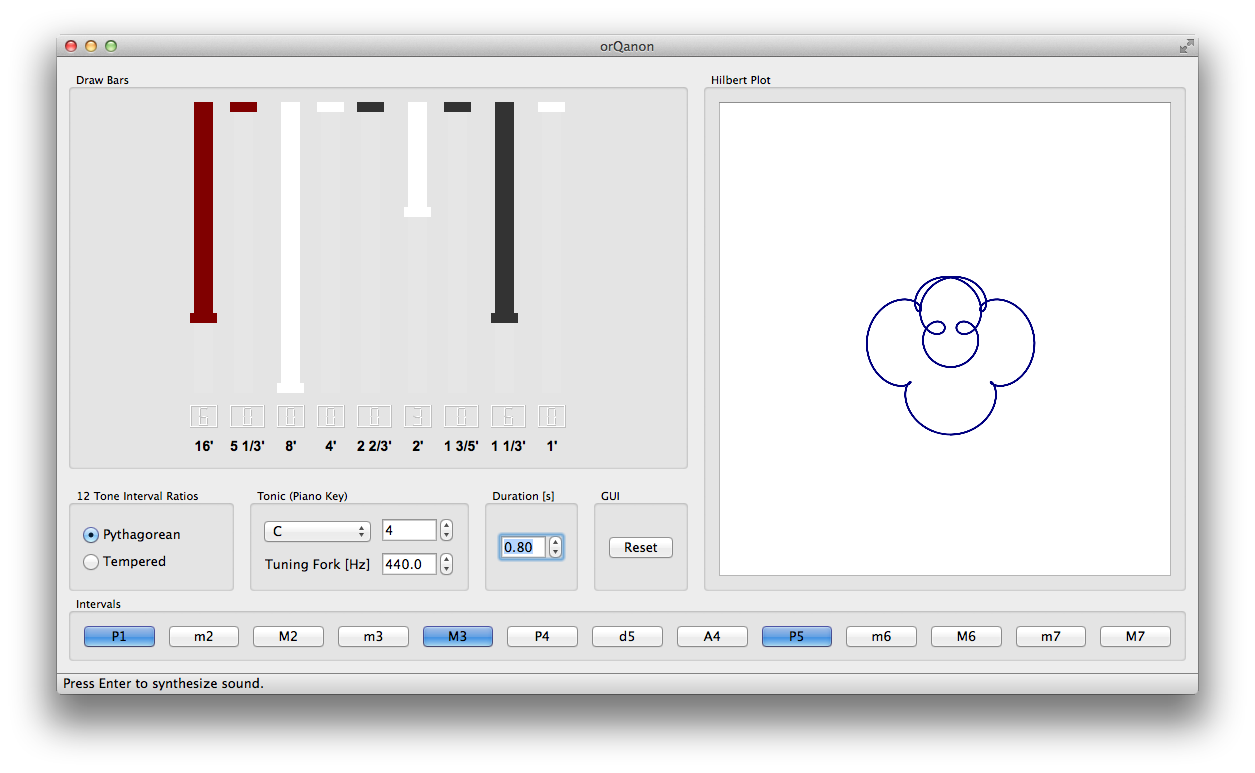
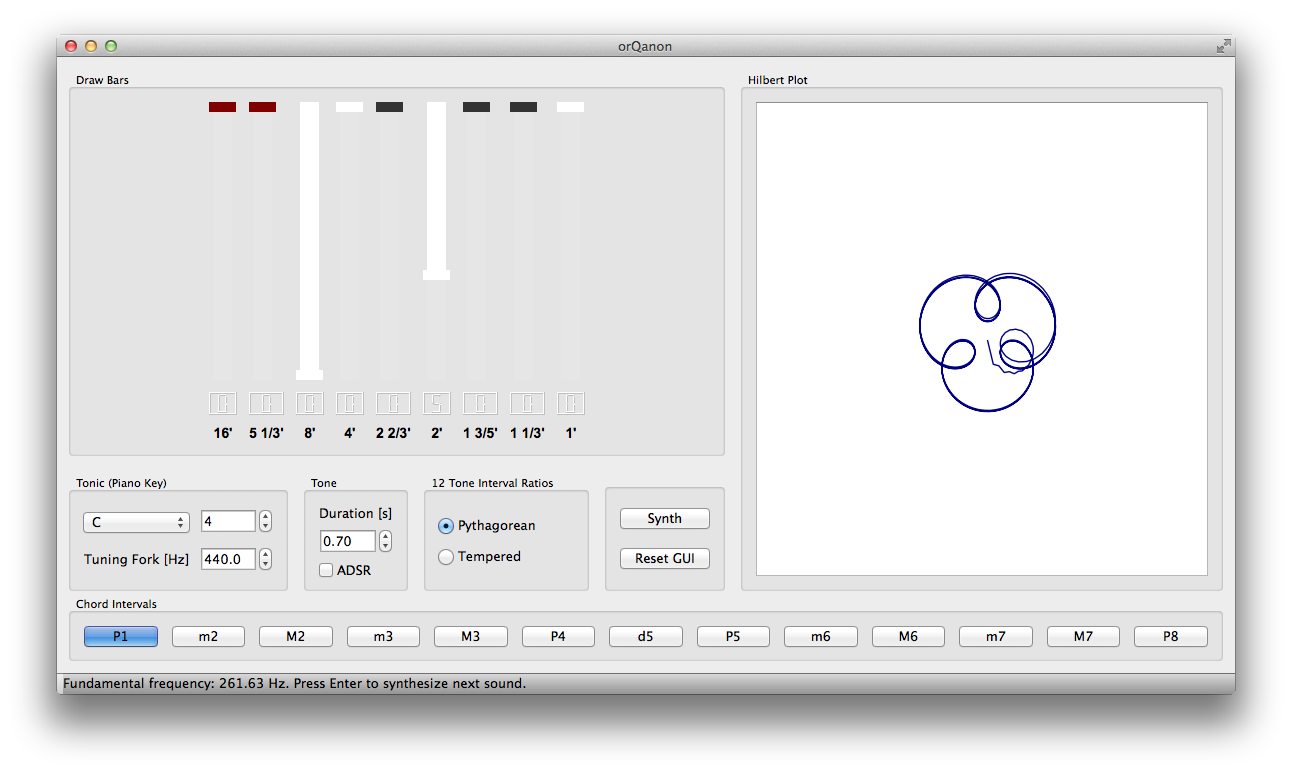
Bug fix + feature
Corrected interval names
added adar curve

diff --git a/orQanon_ui.py b/orQanon_ui.py
@@ -1,8 +1,8 @@
 # -*- coding: utf-8 -*-
 
-# Form implementation generated from reading ui file 'orQanon.ui'
+# Form implementation generated from reading ui file './rsrc/orQanon.ui'
 #
-# Created: Wed Nov 19 21:00:16 2014
+# Created: Thu Nov 20 22:04:00 2014
 #      by: PyQt5 UI code generator 5.3.2
 #
 # WARNING! All changes made in this file will be lost!
@@ -12,7 +12,7 @@ from PyQt5 import QtCore, QtGui, QtWidgets
 class Ui_mainWindow(object):
     def setupUi(self, mainWindow):
         mainWindow.setObjectName("mainWindow")
-        mainWindow.resize(1141, 637)
+        mainWindow.resize(1178, 637)
         self.centralwidget = QtWidgets.QWidget(mainWindow)
         self.centralwidget.setObjectName("centralwidget")
         self.verticalLayout_2 = QtWidgets.QVBoxLayout(self.centralwidget)
@@ -439,18 +439,6 @@ class Ui_mainWindow(object):
         self.verticalLayout.addWidget(self.groupBox_2)
         self.horizontalLayout_2 = QtWidgets.QHBoxLayout()
         self.horizontalLayout_2.setObjectName("horizontalLayout_2")
-        self.groupBox_4 = QtWidgets.QGroupBox(self.centralwidget)
-        self.groupBox_4.setObjectName("groupBox_4")
-        self.verticalLayout_3 = QtWidgets.QVBoxLayout(self.groupBox_4)
-        self.verticalLayout_3.setObjectName("verticalLayout_3")
-        self.radioButton_1 = QtWidgets.QRadioButton(self.groupBox_4)
-        self.radioButton_1.setChecked(True)
-        self.radioButton_1.setObjectName("radioButton_1")
-        self.verticalLayout_3.addWidget(self.radioButton_1)
-        self.radioButton_2 = QtWidgets.QRadioButton(self.groupBox_4)
-        self.radioButton_2.setObjectName("radioButton_2")
-        self.verticalLayout_3.addWidget(self.radioButton_2)
-        self.horizontalLayout_2.addWidget(self.groupBox_4)
         self.groupBox_6 = QtWidgets.QGroupBox(self.centralwidget)
         self.groupBox_6.setObjectName("groupBox_6")
         self.gridLayout_7 = QtWidgets.QGridLayout(self.groupBox_6)
@@ -478,20 +466,44 @@ class Ui_mainWindow(object):
         self.groupBox_5.setObjectName("groupBox_5")
         self.gridLayout_4 = QtWidgets.QGridLayout(self.groupBox_5)
         self.gridLayout_4.setObjectName("gridLayout_4")
+        self.label_10 = QtWidgets.QLabel(self.groupBox_5)
+        self.label_10.setObjectName("label_10")
+        self.gridLayout_4.addWidget(self.label_10, 0, 0, 1, 1)
         self.doubleSpinBox_1 = QtWidgets.QDoubleSpinBox(self.groupBox_5)
         self.doubleSpinBox_1.setMinimum(0.1)
         self.doubleSpinBox_1.setMaximum(5.0)
         self.doubleSpinBox_1.setSingleStep(0.1)
+        self.doubleSpinBox_1.setProperty("value", 0.7)
         self.doubleSpinBox_1.setObjectName("doubleSpinBox_1")
-        self.gridLayout_4.addWidget(self.doubleSpinBox_1, 0, 0, 1, 1)
+        self.gridLayout_4.addWidget(self.doubleSpinBox_1, 1, 0, 1, 1)
+        self.checkBox = QtWidgets.QCheckBox(self.groupBox_5)
+        self.checkBox.setChecked(True)
+        self.checkBox.setObjectName("checkBox")
+        self.gridLayout_4.addWidget(self.checkBox, 2, 0, 1, 1)
         self.horizontalLayout_2.addWidget(self.groupBox_5)
+        self.groupBox_4 = QtWidgets.QGroupBox(self.centralwidget)
+        self.groupBox_4.setObjectName("groupBox_4")
+        self.verticalLayout_3 = QtWidgets.QVBoxLayout(self.groupBox_4)
+        self.verticalLayout_3.setObjectName("verticalLayout_3")
+        self.radioButton_1 = QtWidgets.QRadioButton(self.groupBox_4)
+        self.radioButton_1.setChecked(True)
+        self.radioButton_1.setObjectName("radioButton_1")
+        self.verticalLayout_3.addWidget(self.radioButton_1)
+        self.radioButton_2 = QtWidgets.QRadioButton(self.groupBox_4)
+        self.radioButton_2.setObjectName("radioButton_2")
+        self.verticalLayout_3.addWidget(self.radioButton_2)
+        self.horizontalLayout_2.addWidget(self.groupBox_4)
         self.groupBox_7 = QtWidgets.QGroupBox(self.centralwidget)
+        self.groupBox_7.setTitle("")
         self.groupBox_7.setObjectName("groupBox_7")
         self.gridLayout_6 = QtWidgets.QGridLayout(self.groupBox_7)
         self.gridLayout_6.setObjectName("gridLayout_6")
         self.pushButton_reset = QtWidgets.QPushButton(self.groupBox_7)
         self.pushButton_reset.setObjectName("pushButton_reset")
-        self.gridLayout_6.addWidget(self.pushButton_reset, 0, 0, 1, 1)
+        self.gridLayout_6.addWidget(self.pushButton_reset, 1, 0, 1, 1)
+        self.pushButton_synth = QtWidgets.QPushButton(self.groupBox_7)
+        self.pushButton_synth.setObjectName("pushButton_synth")
+        self.gridLayout_6.addWidget(self.pushButton_synth, 0, 0, 1, 1)
         self.horizontalLayout_2.addWidget(self.groupBox_7)
         self.verticalLayout.addLayout(self.horizontalLayout_2)
         self.horizontalLayout_5.addLayout(self.verticalLayout)
@@ -568,7 +580,7 @@ class Ui_mainWindow(object):
         self.verticalLayout_2.addWidget(self.groupBox)
         mainWindow.setCentralWidget(self.centralwidget)
         self.menubar = QtWidgets.QMenuBar(mainWindow)
-        self.menubar.setGeometry(QtCore.QRect(0, 0, 1141, 22))
+        self.menubar.setGeometry(QtCore.QRect(0, 0, 1178, 22))
         self.menubar.setObjectName("menubar")
         self.menuFile = QtWidgets.QMenu(self.menubar)
         self.menuFile.setObjectName("menuFile")
@@ -613,14 +625,16 @@ class Ui_mainWindow(object):
         self.label_3.setText(_translate("mainWindow", "8\'"))
         self.label_6.setText(_translate("mainWindow", "2\'"))
         self.label_9.setText(_translate("mainWindow", "1\'"))
+        self.groupBox_6.setTitle(_translate("mainWindow", "Tonic (Piano Key)"))
+        self.label.setText(_translate("mainWindow", "Tuning Fork [Hz]"))
+        self.groupBox_5.setTitle(_translate("mainWindow", "Tone"))
+        self.label_10.setText(_translate("mainWindow", "Duration [s]"))
+        self.checkBox.setText(_translate("mainWindow", "ADSR"))
         self.groupBox_4.setTitle(_translate("mainWindow", "12 Tone Interval Ratios"))
         self.radioButton_1.setText(_translate("mainWindow", "Pythagorean"))
         self.radioButton_2.setText(_translate("mainWindow", "Tempered"))
-        self.groupBox_6.setTitle(_translate("mainWindow", "Tonic (Piano Key)"))
-        self.label.setText(_translate("mainWindow", "Tuning Fork [Hz]"))
-        self.groupBox_5.setTitle(_translate("mainWindow", "Duration [s]"))
-        self.groupBox_7.setTitle(_translate("mainWindow", "GUI"))
-        self.pushButton_reset.setText(_translate("mainWindow", "Reset"))
+        self.pushButton_reset.setText(_translate("mainWindow", "Reset GUI"))
+        self.pushButton_synth.setText(_translate("mainWindow", "Synth"))
         self.groupBox_3.setTitle(_translate("mainWindow", "Hilbert Plot"))
         self.groupBox.setTitle(_translate("mainWindow", "Chord Intervals"))
         self.pushButton_1.setText(_translate("mainWindow", "P1"))
@@ -630,12 +644,12 @@ class Ui_mainWindow(object):
         self.pushButton_5.setText(_translate("mainWindow", "M3"))
         self.pushButton_6.setText(_translate("mainWindow", "P4"))
         self.pushButton_7.setText(_translate("mainWindow", "d5"))
-        self.pushButton_8.setText(_translate("mainWindow", "A4"))
-        self.pushButton_9.setText(_translate("mainWindow", "P5"))
-        self.pushButton_10.setText(_translate("mainWindow", "m6"))
-        self.pushButton_11.setText(_translate("mainWindow", "M6"))
-        self.pushButton_12.setText(_translate("mainWindow", "m7"))
-        self.pushButton_13.setText(_translate("mainWindow", "M7"))
+        self.pushButton_8.setText(_translate("mainWindow", "P5"))
+        self.pushButton_9.setText(_translate("mainWindow", "m6"))
+        self.pushButton_10.setText(_translate("mainWindow", "M6"))
+        self.pushButton_11.setText(_translate("mainWindow", "m7"))
+        self.pushButton_12.setText(_translate("mainWindow", "M7"))
+        self.pushButton_13.setText(_translate("mainWindow", "P8"))
         self.menuFile.setTitle(_translate("mainWindow", "File"))
         self.menuHelp.setTitle(_translate("mainWindow", "Help"))
         self.actionExit.setText(_translate("mainWindow", "Exit"))

diff --git a/synth.py b/synth.py
@@ -26,6 +26,7 @@ class Synth:
         self.rate = rate
         self.port = pyaudio.PyAudio()
         self.stream = self.port.open(format=pyaudio.paFloat32, channels=2, rate=rate, output=True, frames_per_buffer=chunk)
+        self.adsr = 0.2
 
 
     def play(self, x):
@@ -38,10 +39,9 @@ class Synth:
         self.stream.stop_stream()
 
         
-    def make_chord(self, frequencies, drawbars, duration):
+    def make_chord(self, frequencies, drawbars, duration, make_adsr = True):
 
         fs = self.rate
-
         t = np.arange(0, duration, 1/fs)
         x = np.zeros(len(t))
 
@@ -55,10 +55,17 @@ class Synth:
             x +=  int(drawbars[6])/8 * np.sin(2 * np.pi * frequencies[i]/ 8 / 5 * 8 * t) # 8/5 '
             x +=  int(drawbars[7])/8 * np.sin(2 * np.pi * frequencies[i]/ 4 / 3 * 8 * t) # 4/3 '
             x +=  int(drawbars[8])/8 * np.sin(2 * np.pi * frequencies[i]/ 1 * 8 * t) # 1 '
+        if make_adsr:
+            x *= 1-np.e**(-(t)*5/self.adsr/duration)
 
         return t, x
             
+    def make_adsr(fs, l = 1, rt = 0.2):
+        """Make an ADSR curve."""
         
+        t = np.arange(0, l, 1/fs)
+        return t, x
+
     def make_analytical(self, x):
         """Make an analitical signal from the real signal"""
 

diff --git a/orQanon_mainWindow.py b/orQanon_mainWindow.py
@@ -80,6 +80,7 @@ class mainWindow(QMainWindow, Ui_mainWindow):
         # signals and slots
 
         self.pushButton_reset.pressed.connect(self.do_reset)
+        self.pushButton_synth.pressed.connect(self.start_beep)
         self.comboBox.activated.connect(self.onActivated)
         #self.comboBox.activated[str].connect(self.onActivatedstr)
 
@@ -106,6 +107,7 @@ class mainWindow(QMainWindow, Ui_mainWindow):
         self.tonic_combo = 0 # C key
         self.radioButton_1.setChecked(True)
         self.radioButton_2.setChecked(False)
+        self.checkBox.setChecked(True)
         
     def keyPressEvent(self, event):
         
@@ -145,7 +147,7 @@ class mainWindow(QMainWindow, Ui_mainWindow):
             if not self.pushButtons[i].isChecked():
                 frequencies[i] = 0
         
-        t, x = self.synth.make_chord(frequencies, drawbars, duration)
+        t, x = self.synth.make_chord(frequencies, drawbars, duration, self.checkBox.isChecked())
 
         self.synth.play(x)
         xbar, inst_ph = self.synth.make_analytical(x)

diff --git a/README.md b/README.md
@@ -7,7 +7,11 @@ A software synthesizer for the study of music theory and chords written in Pytho
 
 ### Description
 
-Sound generation is started by pressing the **Enter key**. The individual configurations of the generated sound is explained below:
+Sound generation is started by pressing the **Enter key** or the **synth** button. The individual configurations of the generated sound is explained below from top to buttom:
+
+#### Drawbars
+
+Drawbars are shown as in historical Hammond B3 analog synthesizer, which in turn is similar to church organs. Historically register drawbars are pulled towards the player for louder sounds. Thats why the drawbars are drawn from top to bottom in the GUI. The values are from zero (closed/off register) to eight (loudest). Also the colors and numbers beneath the registers resemble those on the Hammond B3 organ. The numbers are in foot length of organ pipe. Sub harmonics are red, fundamental (8') and higher harmonics are white, whereas other intervals are in black.
 
 #### Hilbert Scope
 
@@ -18,17 +22,9 @@ This pane shows the hilber transform of the signal for the purpose of visualizat
 The program assumes a tone range of a hypothetical piano with 108 keys, from C0 to B8. This means e.g. that the key A4, usually taken as frequency standard (tuning fork) in the musicology, is the 57th key. In order to avoid confusion, it should be mentioned that the successtion of the piano keys are actually according to an **equal tempered** piano keyboard. This does not limit the versatility of the software since the user can achieve any frequency by changing the tuning fork.
 
 
-#### Duration
+#### Tone
 
-This is the duration of the generated tone in seconds.
-
-#### Drawbars
-
-Drawbars are shown as in historical Hammond B3 analog synthesizer, which in turn is similar to church organs. Historically register drawbars are pulled towards the player for louder sounds. Thats why the drawbars are drawn from top to bottom in the GUI. The values are from zero (closed/off register) to eight (loudest). Also the colors and numbers beneath the registers resemble those on the Hammond B3 organ. The numbers are in foot length of organ pipe. Sub harmonics are red, fundamental (8') and higher harmonics are white, whereas other intervals are in black.
-
-#### Chord intervals
-
-Chords can contain as many intervals as desired using toggle buttons. The interval names are chosen as usual in musical theory, minor **m**, major **M**, augmented **A**, diminished **d** and perfect **P** followed by the interval length. The number of buttons resembles a 12 tone scale. By default the perfect unison is checked, which means only one sound is generated.
+Here you can set the duration of the tone and ADSR (Attack, Decay, Sustain, Release) curve. Currently each transient is set to 1/5th of the duration.
 
 #### 12 Tone interval ratios
 
@@ -37,6 +33,10 @@ Here one can choose the ratios governing the 12 tone chord scale. Currently Pyth
 #### GUI reset
 
 This button is for convenience, in order to quickly reset the GUI to the original settings, which may be faster for the user.
+
+#### Chord intervals
+
+Chords can contain as many intervals as desired using toggle buttons. The interval names are chosen as usual in musical theory, minor **m**, major **M**, augmented **A**, diminished **d** and perfect **P** followed by the interval length. The number of buttons resembles a 12 tone scale. By default the perfect unison is checked, which means only one sound is generated.
 
 #### Statusbar
 
